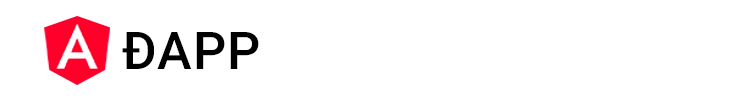
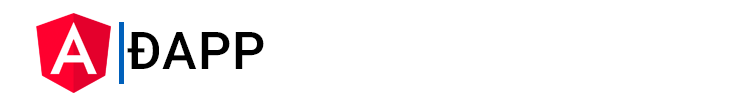
Cambios de portada

Changed region(s): [[0.0299, 0.12, 0.3592, 0.93]]

diff --git a/README.md b/README.md
@@ -1,3 +1,7 @@
+
+![Logo](https://firebasestorage.googleapis.com/v0/b/taller-gdg.appspot.com/o/1_CIJ0LEa6ZR17GFZSjy2ceQ.png?alt=media&token=7662c4d2-863e-41ee-826d-13efef9204ea)
+
+
 #  Angular + Truffle = 💓 ÐAPPS
 This  Trufflebox provides a base for Truffle Framework and Angular DAPP. and you can make transactions between accounts and scale you app with beautiful material design 
 
